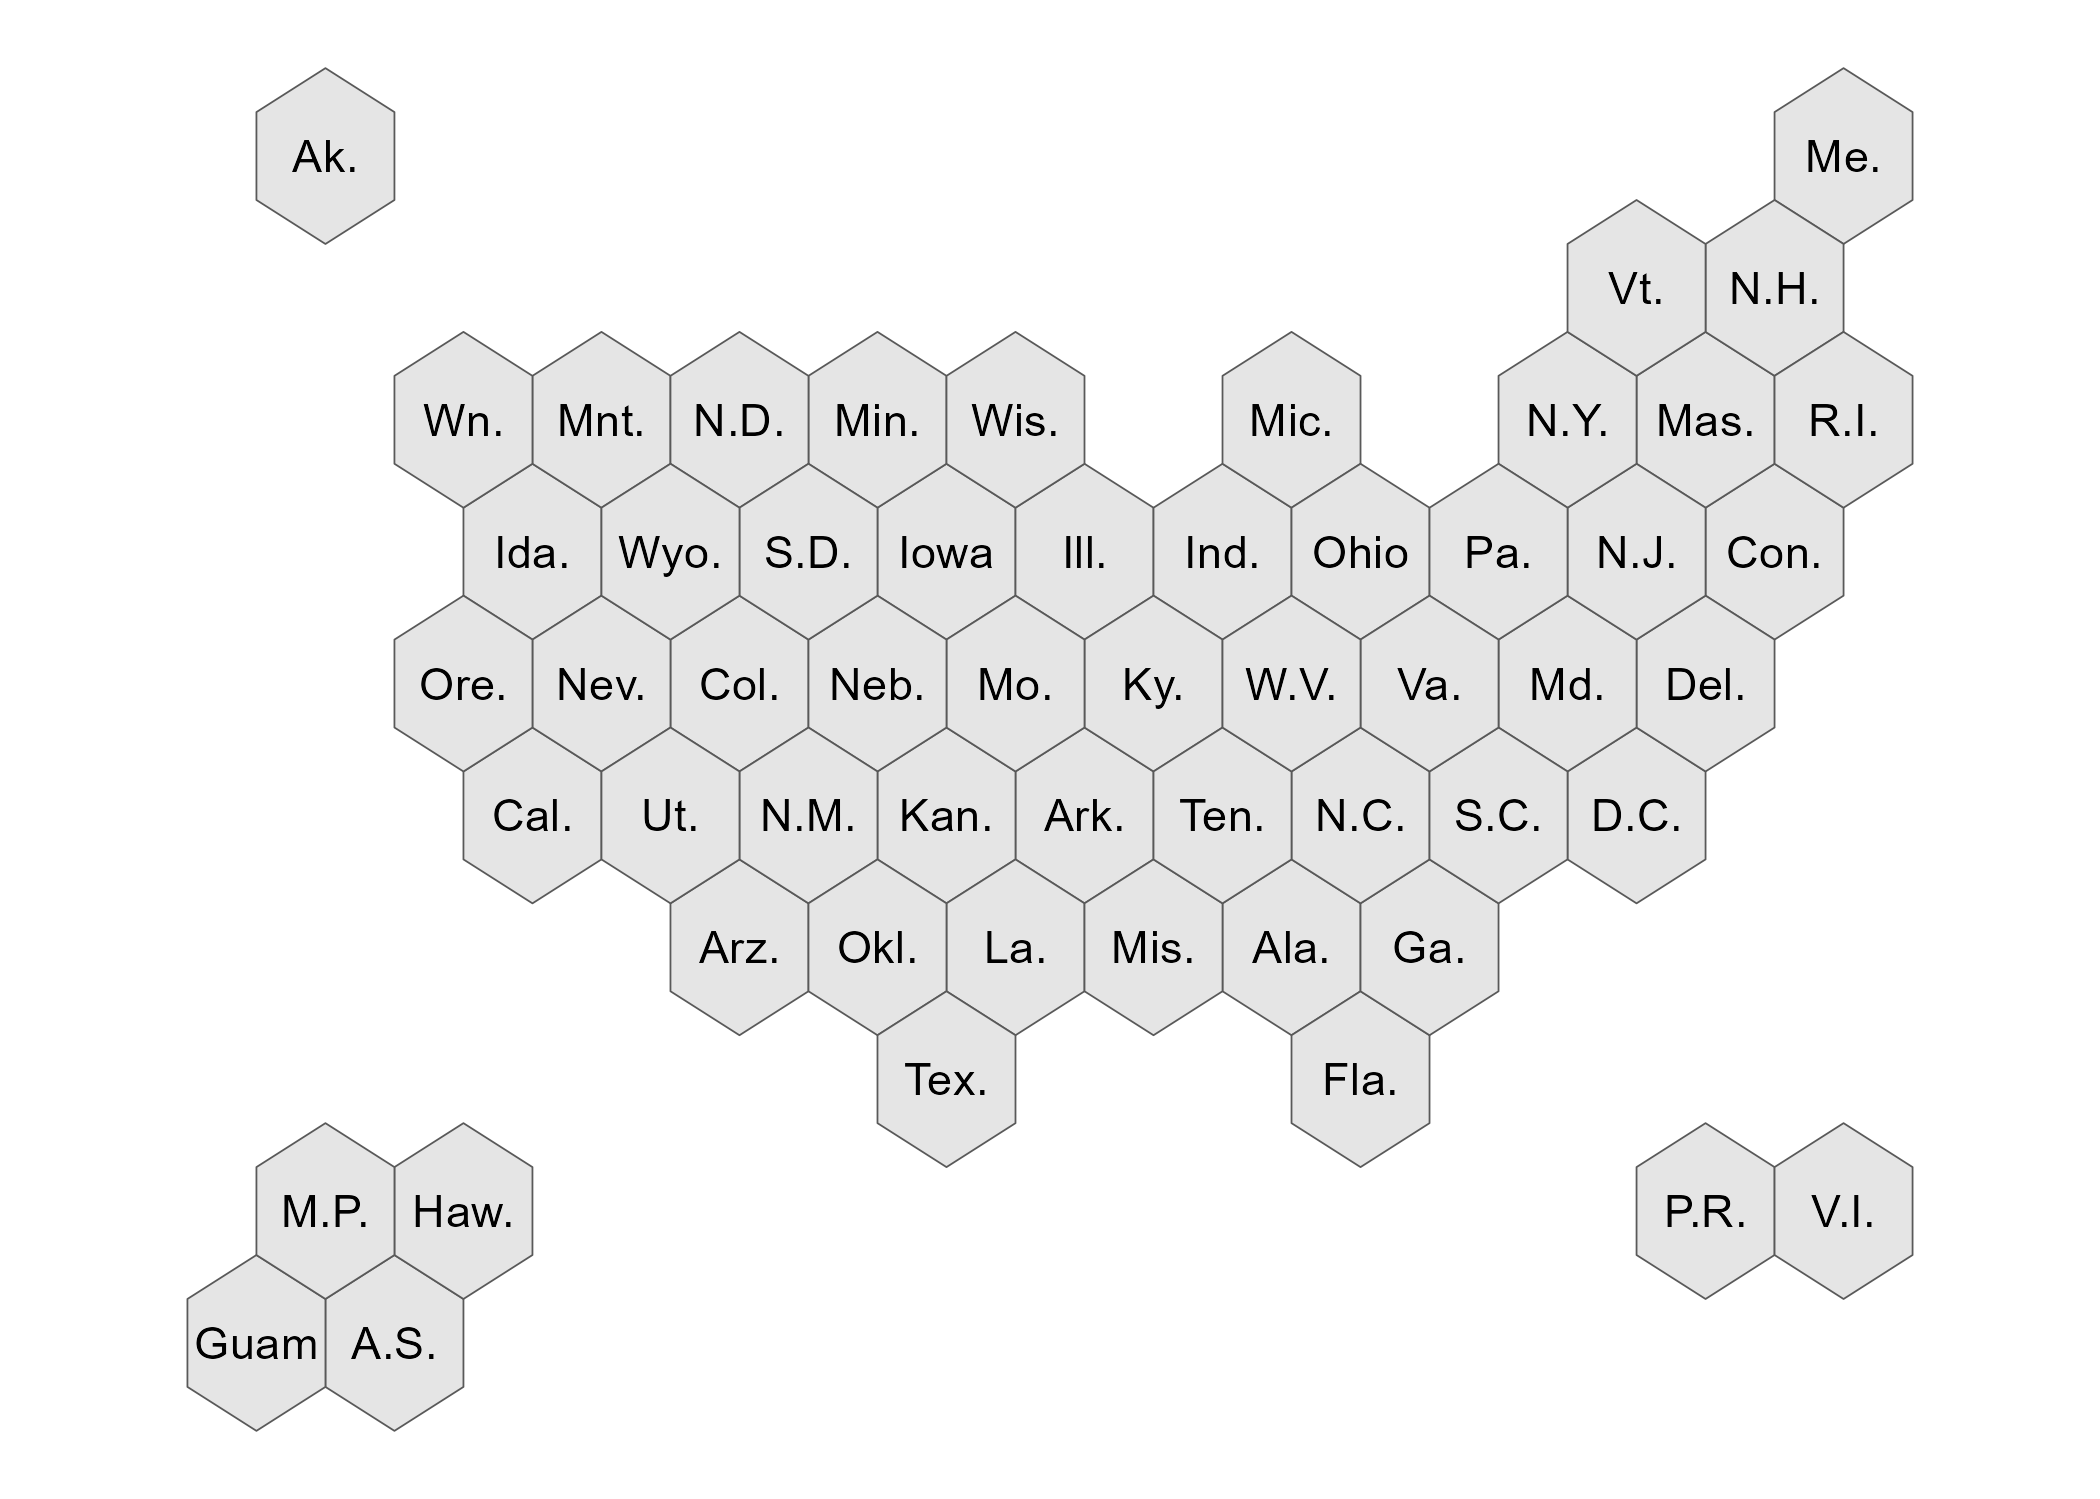
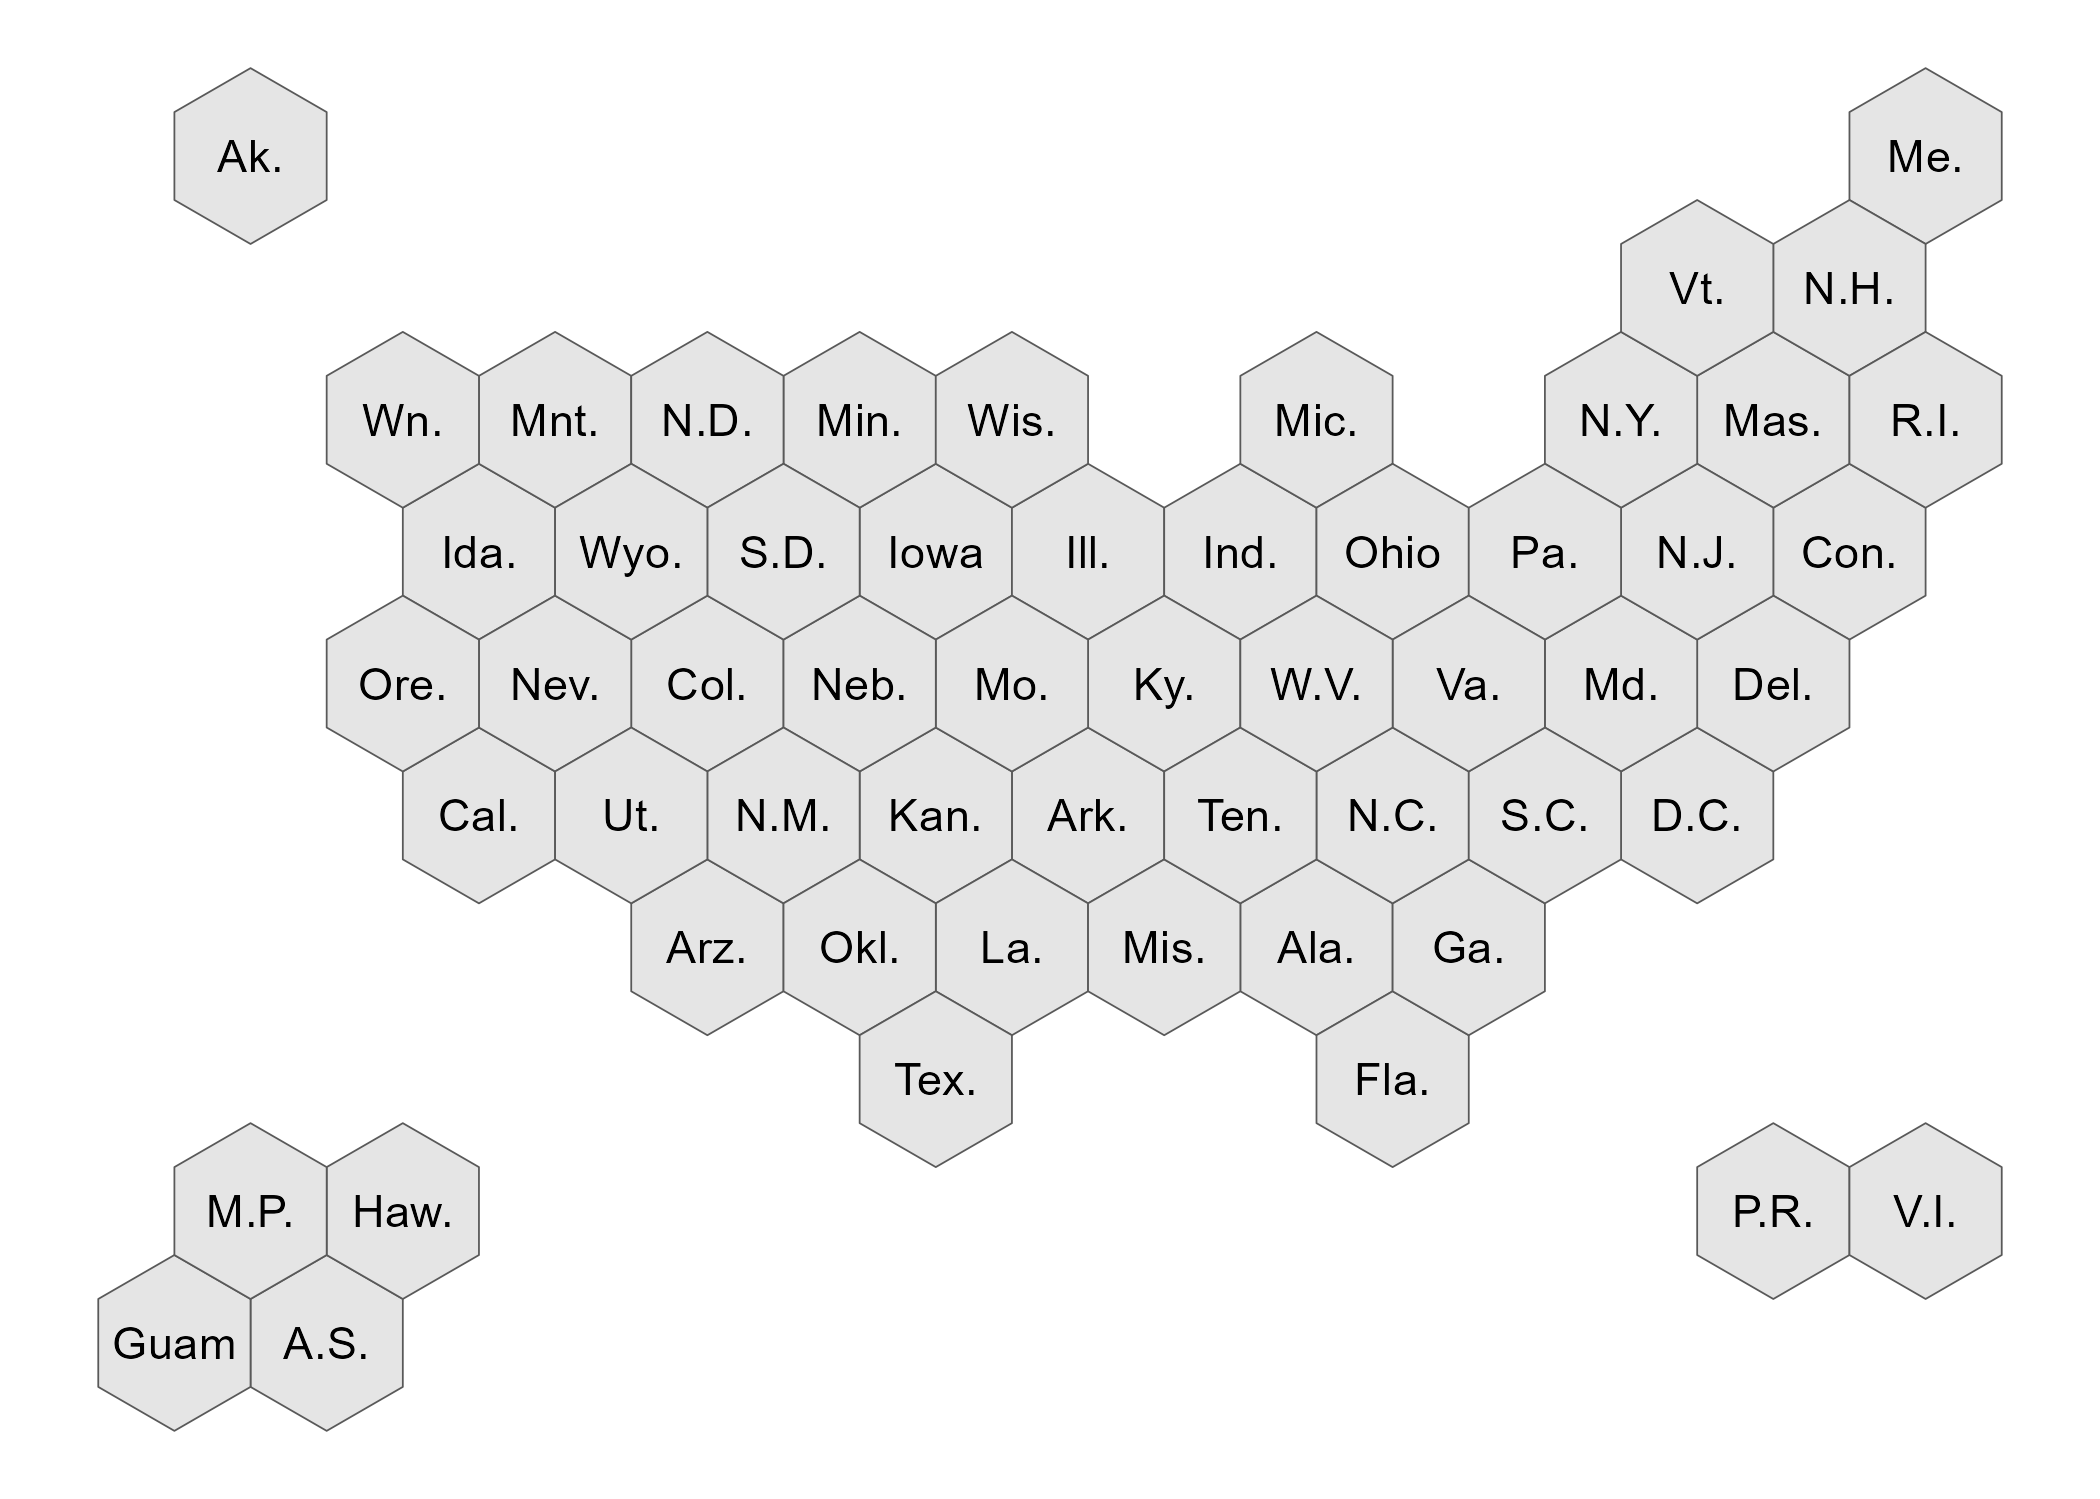
geojson/crs info update

diff --git a/README.md b/README.md
@@ -110,25 +110,25 @@ These files can be found in the
 [data-raw/geojson](https://github.com/MarEichler/usahex/tree/main/data-raw/geojson)
 folder on GitHub.
 
+geojson files are *supposed* to be lat/long coordinates. In order to
+play nice with typical geojson set up, I adjusted the coordinates for
+the hex map so be in the middle of the pacific ocean ([divide by 8;
+subtract 190 from X/long, add 25 to
+Y/lat)](https://github.com/MarEichler/usahex/blob/6f1aec363c984bb4683784836305d8b1cda6e236/data-raw/create_data.R#L333)).
+I also added a coordinate reference systmem (CRS): WGS 84 /
+Pseudo-Mercator ([EPSG code
+3857](https://epsg.org/crs_3857/WGS-84-Pseudo-Mercator.html)).
+
 ``` r
-geojson <- "https://raw.githubusercontent.com/MarEichler/usahex/refs/heads/main/data-raw/geojson/usa56.geojson"
-
-library(sf)
-```
-
-    ## Warning: package 'sf' was built under R version 4.4.3
-
-    ## Linking to GEOS 3.13.0, GDAL 3.10.1, PROJ 9.5.1; sf_use_s2() is TRUE
-
-``` r
-read_sf(geojson)[1:5,]
+geojson <- "https://raw.githubusercontent.com/MarEichler/usahex/refs/heads/develop/data-raw/geojson/usa56.geojson"
+sf::read_sf(geojson)[1:5,]
 ```
 
     ## Simple feature collection with 5 features and 8 fields
     ## Geometry type: POLYGON
     ## Dimension:     XY
-    ## Bounding box:  xmin: 18.20508 ymin: -310 xmax: 295.3332 ymax: 0
-    ## Geodetic CRS:  WGS 84
+    ## Bounding box:  xmin: -187.7244 ymin: -13.75 xmax: -153.0833 ymax: 25
+    ## Projected CRS: WGS 84 / Pseudo-Mercator
     ## # A tibble: 5 × 9
     ##   abbr_usps abbr_gpo abbr_ap abbr_short abbr_long name           fips  geo_type 
     ##   <chr>     <chr>    <chr>   <chr>      <chr>     <chr>          <chr> <chr>    
@@ -137,10 +137,10 @@ read_sf(geojson)[1:5,]
     ## 3 AR        Ark.     Ark.    Ark.       Arkan.    Arkansas       05    state    
     ## 4 AS        A.S.     A.S.    A.S.       Am.Sa.    American Samoa 60    territory
     ## 5 AZ        Ariz.    Ariz.   Arz.       Ariz.     Arizona        04    state    
-    ## # ℹ 1 more variable: geometry <POLYGON [°]>
+    ## # ℹ 1 more variable: geometry <POLYGON [m]>
 
 ``` r
-df <- read_sf(geojson) 
+df <- sf::read_sf(geojson) 
 
 gggeojson <- ggplot(df) + 
   geom_sf() +
@@ -148,18 +148,9 @@ gggeojson <- ggplot(df) +
   theme_void()
 ```
 
-ggplot2 gets a lil angry when adding labels because geojson files are
-supposed to be lat/long coordinates, and these are clearly not.
-
 ``` r
 gggeojson
 ```
-
-    ## Warning in st_is_longlat(x): bounding box has potentially an invalid value
-    ## range for longlat data
-
-    ## Warning in st_point_on_surface.sfc(sf::st_zm(x)): st_point_on_surface may not
-    ## give correct results for longitude/latitude data
 
 <figure>
 <img src="man/figures/geojson_example_map.png"
